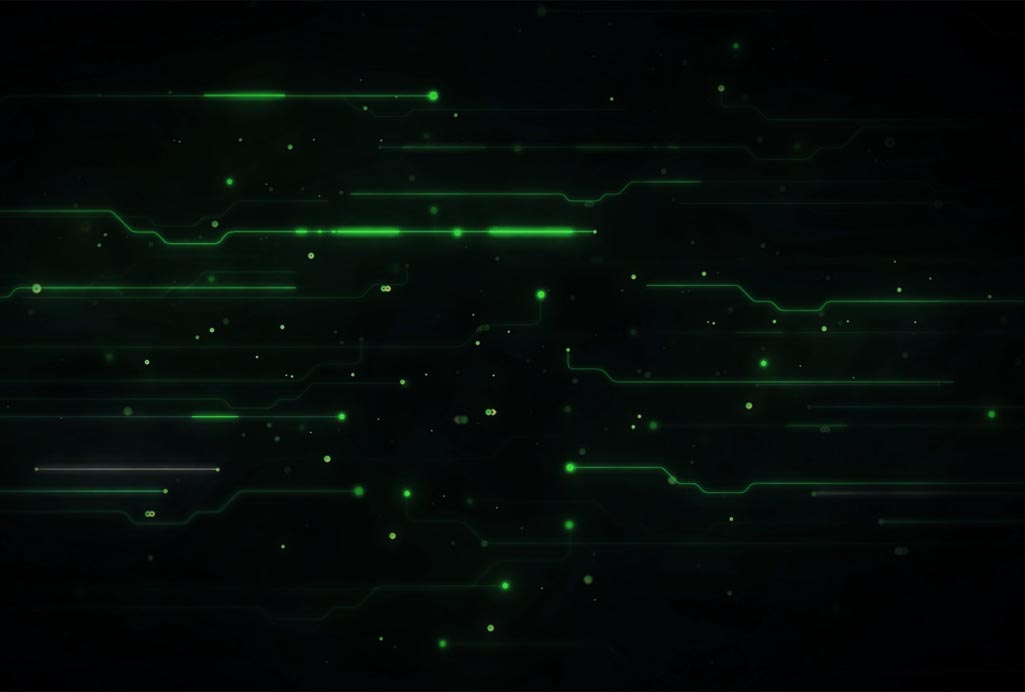
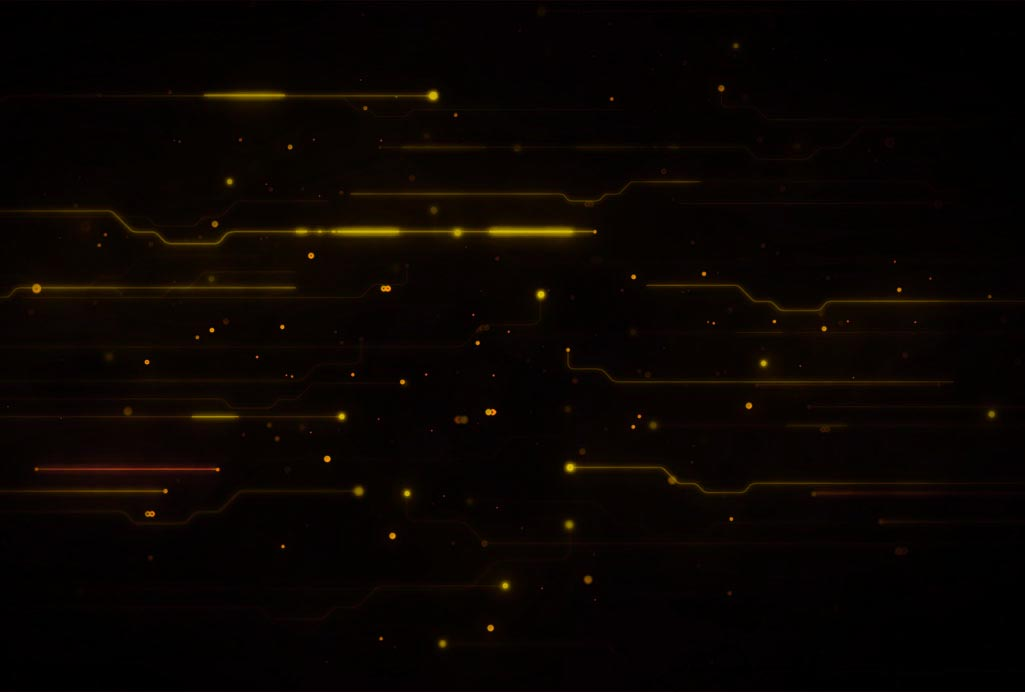
change images

diff --git a/src/components/Home.vue b/src/components/Home.vue
@@ -55,7 +55,7 @@
 
 <section class="mbr-section-full mbr-parallax-background section-3" id="content5-0">
     <div class="container">
-        <h3 class="mbr-section-title display-2" style="color:#00964d;">Start playing, and think harder !</h3>
+        <h3 class="mbr-section-title display-2" style="color:#C32E45;">Start playing, and think harder !</h3>
         <div class="lead"><p class="display-4" style="color:#ffffff;">An exciting online treasure hunt</p></div>
     </div>
 </section>
@@ -144,13 +144,6 @@ export default {
 </script>
 
 <style>
-.section-3 {
-  background: url('/static/images/jumbotron.jpg') no-repeat center center fixed;
-  -webkit-background-size: cover;
-  -moz-background-size: cover;
-  -o-background-size: cover;
-  background-size: cover;
-}
 
 .section-2 {
   position: absolute;
